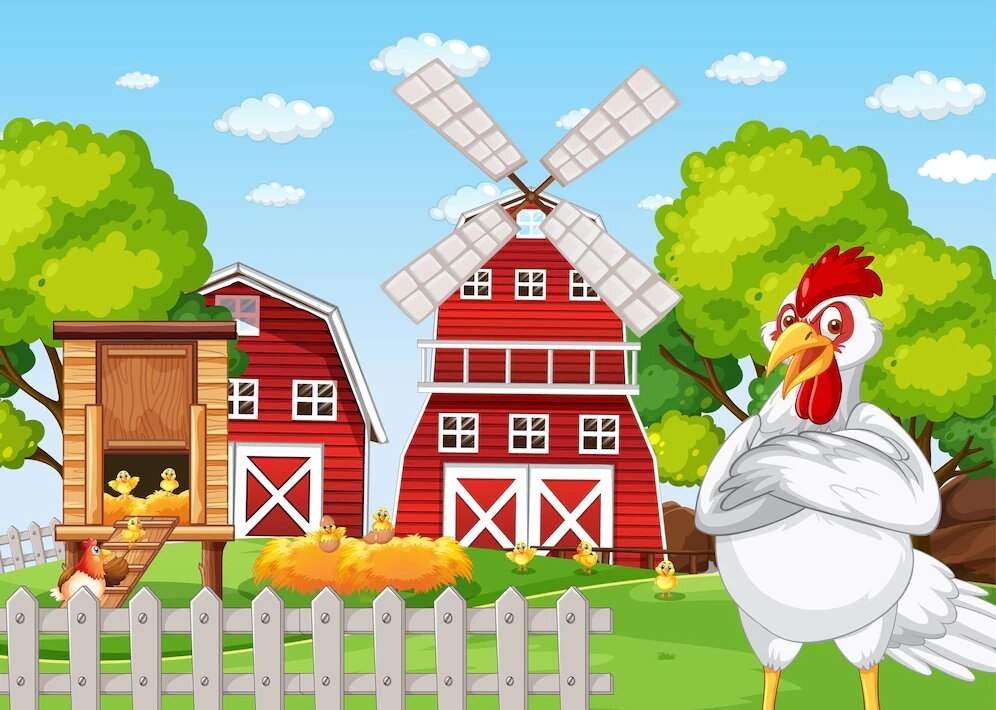
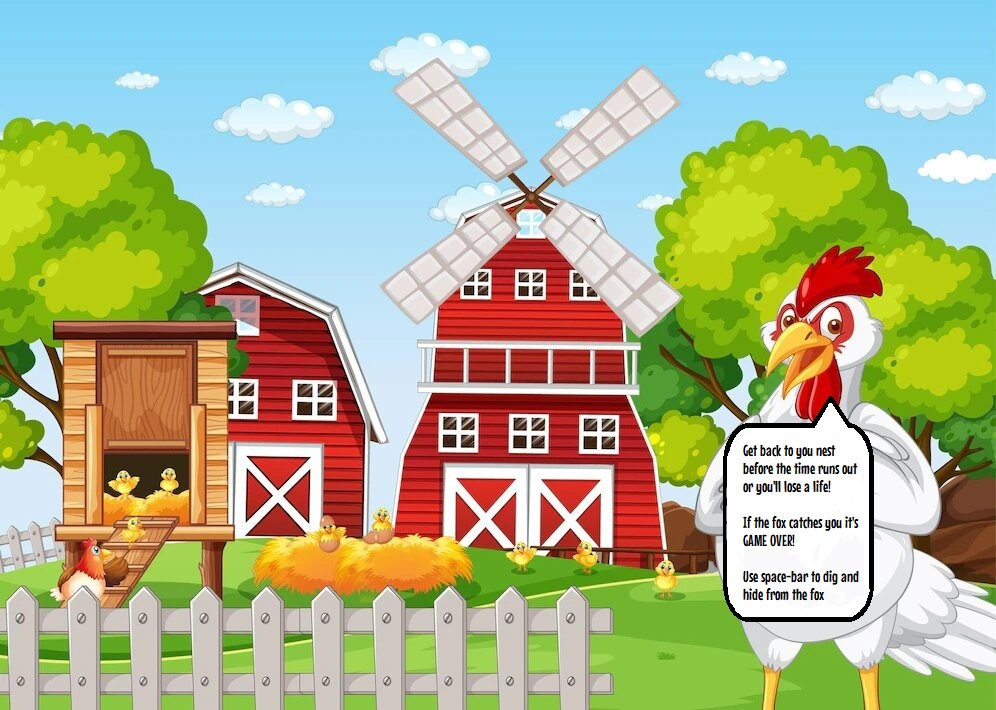
added instrcutions to background. adjusted flex box

Changed region(s): [[0.7159, 0.5577, 0.9026, 0.8986]]

diff --git a/style.css b/style.css
@@ -10,37 +10,46 @@
 
 body {
   display: flex;
+  background-color: #89c740;
   justify-content: space-between;
   background-image: url(./background.jpg);
   background-position: center;
   background-size: cover;
   background-repeat: no-repeat;
+  overflow: hidden;
 }
 
 h1 {
   text-align: center;
   color: darkorange;
-  font-size: 4rem;
+  font-size: 7vw;
   -webkit-text-stroke: 1px black;
   margin: 0px;
+}
+
+header {
+  width: 80vw;
+  display: flex;
+  flex-direction: column;
+  align-items: center;
 }
 
 h2 {
   text-align: center;
   color: darkorange;
-  font-size: 3rem;
+  font-size: 5vw;
   -webkit-text-stroke: 1px black;
   margin: 0px;
 }
 
 h3 {
-  font-size: 1.8rem;
+  font-size: 5vw;
   text-align: center;
 }
 
 .clock {
   text-align: center;
-  font-size: 1.2rem;
+  font-size: 3vw;
   margin: 0;
 }
 
@@ -66,6 +75,7 @@ button {
   width: 6rem;
   font-size: 1.2rem;
   border-radius: 30%;
+  margin: 1rem;
 }
 button:hover {
   position: relative;
@@ -75,16 +85,14 @@ button:hover {
 }
 
 .startScreen {
-  width: 80vw;
-  aspect-ratio: 1/1;
-  margin-right: 0.25rem;
+  height: 60vh;
   display: flex;
   justify-content: center;
   align-items: center;
 }
 
 .grid {
-  width: 80vw;
+  width: 70vh;
   aspect-ratio: 1/1;
   background-image: url(./grass.jpg);
   background-position: center;
@@ -98,13 +106,11 @@ button:hover {
 }
 
 .scoreScreen {
-  width: 80vw;
-  aspect-ratio: 1/1;
-  margin-right: 0.25rem;
+  height: 60vh;
   display: flex;
+  flex-direction: column;
   justify-content: center;
   align-items: center;
-  flex-direction: column;
 }
 
 .hidden {
@@ -114,6 +120,7 @@ button:hover {
 #interface {
   display: flex;
   flex-direction: column;
+  justify-content: space-between;
 }
 
 .player {

diff --git a/game.js b/game.js
@@ -11,17 +11,10 @@ let clock = document.querySelector(`.clock`);
 const levelCount = document.querySelector(`h3`);
 
 function moveToGameScreen() {
-  startScreen.classList.toggle(`hidden`);
-  gameScreen.classList.toggle(`hidden`);
-}
-
-function returnToGameScreen() {
-  gameScreen.classList.toggle(`hidden`);
-  if (gameOverScreen.classList.contains(`hidden`)) {
-    winScreen.classList.toggle(`hidden`);
-  } else {
-    gameOverScreen.classList.toggle(`hidden`);
-  }
+  startScreen.classList.add(`hidden`);
+  gameScreen.classList.remove(`hidden`);
+  winScreen.classList.add(`hidden`);
+  gameOverScreen.classList.add(`hidden`);
 }
 
 let timeLeft = 10;
@@ -238,7 +231,7 @@ const game = {
     this.clearBoard();
     this.level = 0;
     levels[this.level].fox.stop();
-    returnToGameScreen();
+    moveToGameScreen();
     timeLeft = 10;
     startTime();
     this.level = 0;

diff --git a/index.html b/index.html
@@ -30,15 +30,14 @@
     </header>
 
     <aside id="interface">
-      <div class="lives"></div>
-      <div class="levelAndClock">
-        <div class="clock">timer</div>
-        <h3>Level</h3>
+      <div>
+        <div class="lives"></div>
+        <div class="levelAndClock">
+          <div class="clock">timer</div>
+          <h3>Level</h3>
+        </div>
       </div>
-      <article></article>
-      <article></article>
-      <artcile></artcile>
-      <article></article>
+      <article class="instructions"></article>
     </aside>
   </body>
 </html>
